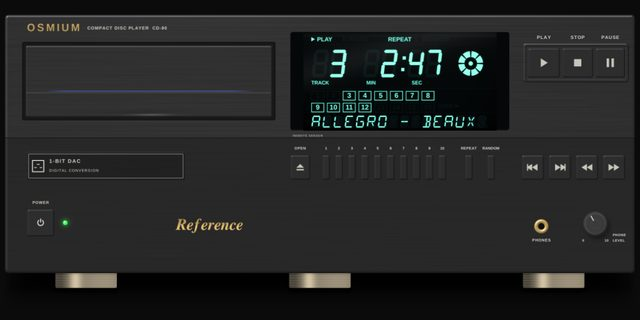
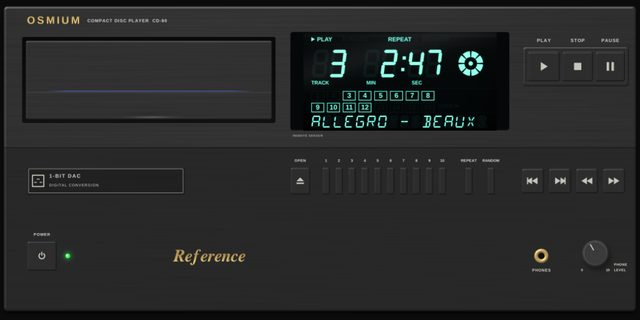
cd player: the drawer comes out with the whole disc, the case fills the scene
Opened, the drawer left a flat grey hole and the disc was cut by the slot's
lower edge. The bed now shows inside the slot's opening too, shaded darker
towards the back of the cabinet, the inside of the slot is near black, and
the drawer travels further so the disc comes out whole.

The case fills the scene (no feet under it, the rows spread over the
height) and a full-screen scene takes the screen from under the close
button to just above the track line. Names sent twice by a radio (the
same artist and title) are shown once.

diff --git a/native-ui-qt/qml/AnimCdFront.qml b/native-ui-qt/qml/AnimCdFront.qml
@@ -53,11 +53,12 @@ Item {
     function px(v) { return Math.max(1, Math.round(v * root.texScale)) }
 
     readonly property real drawerX: 21
-    readonly property real drawerY: 37
+    readonly property real drawerY: 33
     readonly property real drawerW: 200
-    readonly property real drawerH: 58
-    readonly property real slotBottom: 98
-    readonly property real travel: 106
+    readonly property real drawerH: 64
+    readonly property real slotTop: 31
+    readonly property real slotBottom: 100
+    readonly property real travel: 140
     readonly property real bedH: 124
     readonly property real bedDiscX: 100
     readonly property real bedDiscY: 86
@@ -66,13 +67,13 @@ Item {
     // name: [x0, y0, x1, y1] (cdfront.py KEYS)
     readonly property var keys: {
         var k = {
-            play: [429, 39, 455, 63], stop: [457, 39, 482, 63], pause: [484, 39, 508, 63],
-            eject: [236, 126, 252, 146], repeat: [378, 126, 384, 146], random: [396, 126, 402, 146],
-            prev: [424, 126, 442, 146], next: [446, 126, 464, 146],
-            rew: [468, 126, 486, 146], ff: [490, 126, 508, 146],
-            power: [22, 170, 44, 192]
+            play: [429, 42, 455, 66], stop: [457, 42, 482, 66], pause: [484, 42, 508, 66],
+            eject: [236, 136, 252, 158], repeat: [378, 136, 384, 158], random: [396, 136, 402, 158],
+            prev: [424, 137, 442, 157], next: [446, 137, 464, 157],
+            rew: [468, 137, 486, 157], ff: [490, 137, 508, 157],
+            power: [22, 196, 46, 220]
         }
-        for (var i = 0; i < 10; i++) k["n" + (i + 1)] = [262 + i * 10.5, 126, 268 + i * 10.5, 146]
+        for (var i = 0; i < 10; i++) k["n" + (i + 1)] = [262 + i * 10.5, 136, 268 + i * 10.5, 158]
         return k
     }
     readonly property var keyNames: ["play", "stop", "pause", "eject", "n1", "n2", "n3", "n4", "n5", "n6", "n7", "n8",
@@ -271,15 +272,16 @@ Item {
         }
 
         Pic {
-            x: 46; y: 174; width: 14; height: 14
+            x: 48; y: 201; width: 14; height: 14
             source: root.assetsBase + (root.power || !root.live ? "cdf-led-green.png" : "cdf-led-red.png")
         }
 
-        // the drawer: its bed (with the disc) shows between the slot and the
-        // drawer front as it comes out
+        // the drawer: its bed (with the disc) shows behind the drawer front as
+        // it comes out, in front of the panel below the slot and, further
+        // back, inside the slot's opening, in the shade of the cabinet
         readonly property real frontY: root.drawerY + root.travel * root.trayOut
         Item {
-            x: root.drawerX; y: root.slotBottom - 2
+            x: root.drawerX; y: root.slotTop
             width: root.drawerW; height: Math.max(0, stage.frontY - y)
             clip: true
             visible: root.trayOut > 0.001
@@ -353,9 +355,18 @@ Item {
                     Pic { anchors.fill: parent; source: root.assetsBase + "../cd/cd-disc.png" }
                 }
             }
+            // inside the cabinet: darker the further back
+            Rectangle {
+                width: parent.width; height: root.slotBottom - root.slotTop
+                gradient: Gradient {
+                    GradientStop { position: 0.0; color: Qt.rgba(0, 0, 0, 0.88) }
+                    GradientStop { position: 0.7; color: Qt.rgba(0, 0, 0, 0.55) }
+                    GradientStop { position: 1.0; color: Qt.rgba(0, 0, 0, 0.35) }
+                }
+            }
         }
         Pic {
-            x: root.drawerX - 8; y: stage.frontY + 54       // cdfront.py: DRAWER y1 - 4 - y0
+            x: root.drawerX - 8; y: stage.frontY + 60       // cdfront.py: DRAWER y1 - 4 - y0
             width: 216; height: 24
             visible: root.trayOut > 0.001
             opacity: Math.min(1, root.trayOut * 3)

diff --git a/native-ui-qt/qml/NpStage.qml b/native-ui-qt/qml/NpStage.qml
@@ -64,8 +64,11 @@ Item {
             x: 80; width: parent.width - 160; y: parent.height - 44; height: 24
             horizontalAlignment: Text.AlignHCenter; verticalAlignment: Text.AlignVCenter
             // a radio: its station too (Player.stationName is only set for streams)
-            text: [Player.title !== Player.stationName ? Player.title : "", Player.artist,
-                   Player.album === "" ? Player.stationName : ""].filter(function(x) { return !!x }).join(" · ")
+            text: {
+                var l = [Player.title !== Player.stationName ? Player.title : "", Player.artist,
+                         Player.album === "" ? Player.stationName : ""]
+                return l.filter(function(x, i) { return !!x && l.indexOf(x) === i }).join(" · ")
+            }
             elide: Text.ElideRight
             color: Theme.silverA(0.75); font.family: Theme.font; font.pixelSize: 15
         }
@@ -100,8 +103,10 @@ Item {
     }
 
     // ── the animation ──────────────────────────────────────────────────────
+    // as large as the screen allows: from under the close button to just
+    // above the track line
     NpAnimation {
-        x: 24; y: 58; width: parent.width - 48; height: parent.height - 110
+        x: 12; y: 54; width: parent.width - 24; height: parent.height - 102
         kind: root.mode === "anim" ? Player.npAnimation : ""
         active: root.shown && root.mode === "anim"
         devScale: root.devScale

diff --git a/native-ui-qt/qml/NpAnimation.qml b/native-ui-qt/qml/NpAnimation.qml
@@ -69,11 +69,14 @@ Item {
     readonly property string station: live && Player.remote && Player.album === "" ? Player.stationName : ""
     readonly property string song: Player.title !== root.station ? Player.title : ""
     readonly property string title: !live ? "" : Player.album || root.station || Player.title
-    readonly property string subtitle: !live ? "" : root.station !== "" ? [Player.artist, root.song].filter(function(x) { return !!x }).join(" - ")
+    // the names that are there, each once (a radio may send the same one as
+    // artist and title)
+    function names(list) { return list.filter(function(x, i) { return !!x && list.indexOf(x) === i }) }
+    readonly property string subtitle: !live ? "" : root.station !== "" ? names([Player.artist, root.song]).join(" - ")
                                                                         : Player.artist
     // the CD-Text: the song and its artist, then the station
     readonly property string trackTitle: !live ? "" : root.song || root.station
-    readonly property string trackArtist: !live ? "" : root.song !== "" ? [Player.artist, root.station].filter(function(x) { return !!x }).join(" - ")
+    readonly property string trackArtist: !live ? "" : root.song !== "" ? names([Player.artist !== root.song ? Player.artist : "", root.station]).join(" - ")
                                                                         : Player.artist
 
     function inputs() {

diff --git a/native-ui-qt/tools/np-anim/cdfront.py b/native-ui-qt/tools/np-anim/cdfront.py
@@ -8,8 +8,8 @@ it, the blue-green fluorescent display (tools/np-anim/lcd.py --vfd) behind
 a smoked window in the middle and the framed PLAY / STOP / PAUSE keys at the
 right; a step down to the lower part with the row of slim keys (OPEN, the
 track numbers 1-10, REPEAT, RANDOM) and the square skip / search keys; at the
-bottom POWER, a gold script, the gold headphone jack and its level knob; and
-champagne feet under the case. The drawer slides out towards the viewer;
+bottom POWER, a gold script, the gold headphone jack and its level knob. The
+case fills the scene. The drawer slides out towards the viewer;
 from above one sees its bed with the disc on it.
 
 Drawing and lighting come from cd.py (same light).
@@ -20,7 +20,7 @@ DIR defaults to native-ui-qt/assets/anim/cdfront/. Files, all in the 520 x 260
 point design of AnimCdFront.qml (the geometry constants below are mirrored
 there):
 
-  cdf-base.png       the player: drop shadow, feet, front, the drawer slot,
+  cdf-base.png       the player: thin shadow, front, the drawer slot,
                      the display window (without the display), keys, jack,
                      knob, prints
   cdf-drawer.png     the drawer front, closed flush in the slot
@@ -41,39 +41,36 @@ from cd import (Canvas, blinn, lambert, normals, radial_noise, rgb3, save, sd_ci
                 smoothstep, soft, srgb, streaks, LXY, LSLOPE)
 
 CANVAS = (520, 260)
-BODY = (4, 12, 516, 222)
+BODY = (3, 5, 517, 253)               # the whole scene: nothing under the case
 BODY_R = 3
-FEET = (70, 260, 450)                 # centres of the three feet under the case
-FOOT_W, FOOT_Y = 50, (222, 234)
-SPLIT_Y = 112                         # the step down to the lower part
-SLOT = (18, 34, 224, 98)
-DRAWER = (21, 37, 221, 95)
-TRAVEL = 106                          # how far the drawer comes out
+SPLIT_Y = 120                         # the step down to the lower part
+SLOT = (18, 30, 224, 100)
+DRAWER = (21, 33, 221, 97)
+TRAVEL = 140                          # how far the drawer comes out
 BED_W, BED_H = 200, 124               # its front edge is the drawer front's top
 BED_DISC = (100, 86)                  # disc centre in the bed (middle of what shows when open)
 BED_DISC_R = (97, 33)                 # the 12 cm recess as seen (rx, ry)
-BADGE = (22, 124, 150, 146)
+BADGE = (22, 136, 150, 158)
 WIN = (236, 26, 414, 106)             # the smoked window of the display
 VFD_AT = (246.6, 26)                  # the LcdCd panel (196 x 100) at VFD_K
 VFD_K = 0.8
-FRAME = (425, 35, 511, 67)            # the raised frame round PLAY / STOP / PAUSE
-KEY_Y = (126, 146)                    # the lower row
-BIG_Y = (39, 63)                      # the framed transport keys
+FRAME = (425, 38, 511, 70)            # the raised frame round PLAY / STOP / PAUSE
+KEY_Y = (136, 158)                    # the lower row
 NUM_X0, NUM_DX, NUM_W = 262, 10.5, 6.0
 KEYS = {                              # name: x0, y0, x1, y1
-    "play": (429, 39, 455, 63), "stop": (457, 39, 482, 63), "pause": (484, 39, 508, 63),
-    "eject": (236, 126, 252, 146),
-    "repeat": (378, 126, 384, 146), "random": (396, 126, 402, 146),
-    "prev": (424, 126, 442, 146), "next": (446, 126, 464, 146),
-    "rew": (468, 126, 486, 146), "ff": (490, 126, 508, 146),
-    "power": (22, 170, 44, 192),
+    "play": (429, 42, 455, 66), "stop": (457, 42, 482, 66), "pause": (484, 42, 508, 66),
+    "eject": (236, 136, 252, 158),
+    "repeat": (378, 136, 384, 158), "random": (396, 136, 402, 158),
+    "prev": (424, 137, 442, 157), "next": (446, 137, 464, 157),
+    "rew": (468, 137, 486, 157), "ff": (490, 137, 508, 157),
+    "power": (22, 196, 46, 220),
 }
 for _i in range(10):
-    KEYS["n%d" % (_i + 1)] = (NUM_X0 + _i * NUM_DX, 126, NUM_X0 + _i * NUM_DX + NUM_W, 146)
-LED = (53, 181)
-JACK = (440, 184)
-KNOB = (484, 182)
-KNOB_R = 10
+    KEYS["n%d" % (_i + 1)] = (NUM_X0 + _i * NUM_DX, 136, NUM_X0 + _i * NUM_DX + NUM_W, 158)
+LED = (55, 208)
+JACK = (440, 208)
+KNOB = (484, 206)
+KNOB_R = 11
 
 PPT = 3.6
 FONT = "/usr/share/fonts/truetype/liberation/LiberationSans-Bold.ttf"
@@ -161,26 +158,10 @@ def build_base(out):
     rng = np.random.default_rng(31)
     bx0, by0, bx1, by1 = BODY
 
-    # ── shadow on the shelf, under the case and its feet ──
-    sh = (0.55 * soft(sd_rrect(X, Y - 8, bx0 + 10, by0 + 4, bx1 - 10, FOOT_Y[1], BODY_R), 8.0)
-          + 0.35 * soft(sd_rrect(X, Y - 2, bx0 + 2, by0 + 2, bx1 - 2, FOOT_Y[1] + 1, BODY_R), 2.4))
-    for fx in FEET:
-        sh = sh + 0.6 * soft(sd_rrect(X, Y - 1.5, fx - FOOT_W / 2, FOOT_Y[1] - 3, fx + FOOT_W / 2, FOOT_Y[1] + 1.5, 2), 1.6)
+    # ── a thin shadow round the case (it fills the scene) ──
+    sh = soft(sd_rrect(X, Y - 1.5, bx0 + 1, by0 + 1, bx1 - 1, by1, BODY_R), 1.8)
     edge = np.minimum(np.minimum(X, CANVAS[0] - X), np.minimum(Y, CANVAS[1] - Y))
-    cv.over((0, 0, 0), np.clip(sh, 0, 0.9) * smoothstep(0, 5, edge))
-
-    # ── champagne feet: turned aluminium cylinders seen from the front ──
-    for fx in FEET:
-        fsd = sd_rrect(X, Y, fx - FOOT_W / 2, FOOT_Y[0] - 2, fx + FOOT_W / 2, FOOT_Y[1], 1.2)
-        u = np.clip((X - fx) / (FOOT_W / 2), -1, 1)
-        nz = np.sqrt(np.clip(1 - u * u, 0, 1))
-        fl = np.clip(-u * LXY[0] * 0.8 + nz * 0.6, 0, None)
-        v = (Y - FOOT_Y[0]) / (FOOT_Y[1] - FOOT_Y[0])
-        band = 0.10 * np.cos(v * 38) * 0.3
-        tone = 0.10 + 0.45 * fl + 0.55 * np.exp(-((u + 0.35) / 0.18) ** 2) + band
-        tone = tone * (0.55 + 0.45 * smoothstep(-0.1, 0.25, v))       # the case's shadow at the top
-        fc = srgb(rgb3((0.78, 0.66, 0.46)) * tone[..., None])
-        cv.over(fc, cv.cov(fsd))
+    cv.over((0, 0, 0), np.clip(0.8 * sh, 0, 0.9) * smoothstep(0, 2, edge))
 
     sd_body = sd_rrect(X, Y, *BODY, BODY_R)
     body = cv.cov(sd_body)
@@ -217,10 +198,11 @@ def build_base(out):
     kcol = 0.022 * (0.35 + 0.65 * lambert(nx, ny, nz)) + 0.45 * blinn(nx, ny, nz, 70) + 0.05 * blinn(nx, ny, nz, 8)
     col = col * (1 - keys) + kcol * keys
 
-    # slot interior: nearly black (the drawer front sits in it)
-    ins = np.clip(-sd_slot, 0, None)
+    # slot interior: the dark inside of the cabinet (seen when the drawer is
+    # out), black under the upper edge, a faint light towards the bottom
     slot_in = cv.cov(sd_slot)
-    col = col * (1 - slot_in) + (0.003 + 0.004 * (1 - np.exp(-ins / 1.5))) * slot_in
+    inside = 0.0006 + 0.0016 * smoothstep(SLOT[1], SLOT[3], Y) ** 2
+    col = col * (1 - slot_in) + inside * slot_in
     rgb = np.repeat(col[..., None], 3, axis=2) * rgb3((0.985, 0.99, 1.02))
 
     # the display window: smoked glass round the display, the same dark
@@ -280,26 +262,26 @@ def build_base(out):
     # ── prints ──
     name_w = text_width("OSMIUM", 8.5, True, 1.6)
     items = [
-        ("COMPACT DISC PLAYER  CD-90", 22 + name_w + 6, 21.5, 3.6, True, "l", 0.35),
+        ("COMPACT DISC PLAYER  CD-90", 22 + name_w + 6, 15.5, 3.6, True, "l", 0.35),
         ("1-BIT DAC", BADGE[0] + 18, BADGE[1] + 5.5, 4.2, True, "l", 0.6),
         ("DIGITAL CONVERSION", BADGE[0] + 18, BADGE[1] + 13.5, 3.0, False, "l", 0.4),
         ("REMOTE SENSOR", WIN[0] + 2, 109.5, 2.4, False, "l", 0.3),
-        ("PLAY", 442, 29, 3.8, True, "m", 0.4),
-        ("STOP", 469.5, 29, 3.8, True, "m", 0.4),
-        ("PAUSE", 496, 29, 3.8, True, "m", 0.4),
-        ("OPEN", 244, 119.5, 3.0, True, "m", 0.2),
-        ("REPEAT", 381, 119.5, 3.0, True, "m", 0.1),
-        ("RANDOM", 399, 119.5, 3.0, True, "m", 0.0),
-        ("POWER", 33, 163.5, 3.2, True, "m", 0.3),
-        ("PHONES", JACK[0], 194, 3.2, True, "m", 0.3),
-        ("PHONE", KNOB[0] + 14, 190, 2.8, True, "l", 0.2),
-        ("LEVEL", KNOB[0] + 14, 194.5, 2.8, True, "l", 0.2),
-        ("0", KNOB[0] - 10, 194.5, 2.8, True, "m", 0.0),
-        ("10", KNOB[0] + 9, 194.5, 2.8, True, "m", 0.0),
+        ("PLAY", 442, 31.5, 3.8, True, "m", 0.4),
+        ("STOP", 469.5, 31.5, 3.8, True, "m", 0.4),
+        ("PAUSE", 496, 31.5, 3.8, True, "m", 0.4),
+        ("OPEN", 244, 129.5, 3.0, True, "m", 0.2),
+        ("REPEAT", 381, 129.5, 3.0, True, "m", 0.1),
+        ("RANDOM", 399, 129.5, 3.0, True, "m", 0.0),
+        ("POWER", 34, 189.5, 3.2, True, "m", 0.3),
+        ("PHONES", JACK[0], 218.5, 3.2, True, "m", 0.3),
+        ("PHONE", KNOB[0] + 15, 214, 2.8, True, "l", 0.2),
+        ("LEVEL", KNOB[0] + 15, 218.5, 2.8, True, "l", 0.2),
+        ("0", KNOB[0] - 11, 218.5, 2.8, True, "m", 0.0),
+        ("10", KNOB[0] + 10, 218.5, 2.8, True, "m", 0.0),
     ]
     for i in range(10):
         x0 = NUM_X0 + i * NUM_DX
-        items.append((str(i + 1), x0 + NUM_W / 2, 119.5, 3.0, True, "m", 0.0))
+        items.append((str(i + 1), x0 + NUM_W / 2, 129.5, 3.0, True, "m", 0.0))
     ink = np.clip(text_mask(cv, items) + ink_all, 0, 1)
     rgb = rgb * (1 - ink[..., None]) + rgb3(INK) * ink[..., None]
     # symbols on the key caps
@@ -311,8 +293,8 @@ def build_base(out):
         rgb = rgb * (1 - sm[..., None]) + rgb3(INK) * 0.95 * sm[..., None]
 
     # ── gold: the name and the script, a metallic gradient ──
-    gold_items = text_mask(cv, [("OSMIUM", 22, 19.5, 8.5, True, "l", 1.6)])
-    script = text_mask(cv, [("Reference", 170, 178, 13.0, True, "m", 0.0)], font=FONT_SCRIPT)
+    gold_items = text_mask(cv, [("OSMIUM", 22, 13.5, 8.5, True, "l", 1.6)])
+    script = text_mask(cv, [("Reference", 170, 203, 14.0, True, "m", 0.0)], font=FONT_SCRIPT)
     g = np.clip(gold_items + script, 0, 1)
     tg = np.clip(((Y - 12) % 14) / 14, 0, 1)
     gshade = 0.75 + 0.55 * np.exp(-((tg - 0.35) / 0.2) ** 2)
